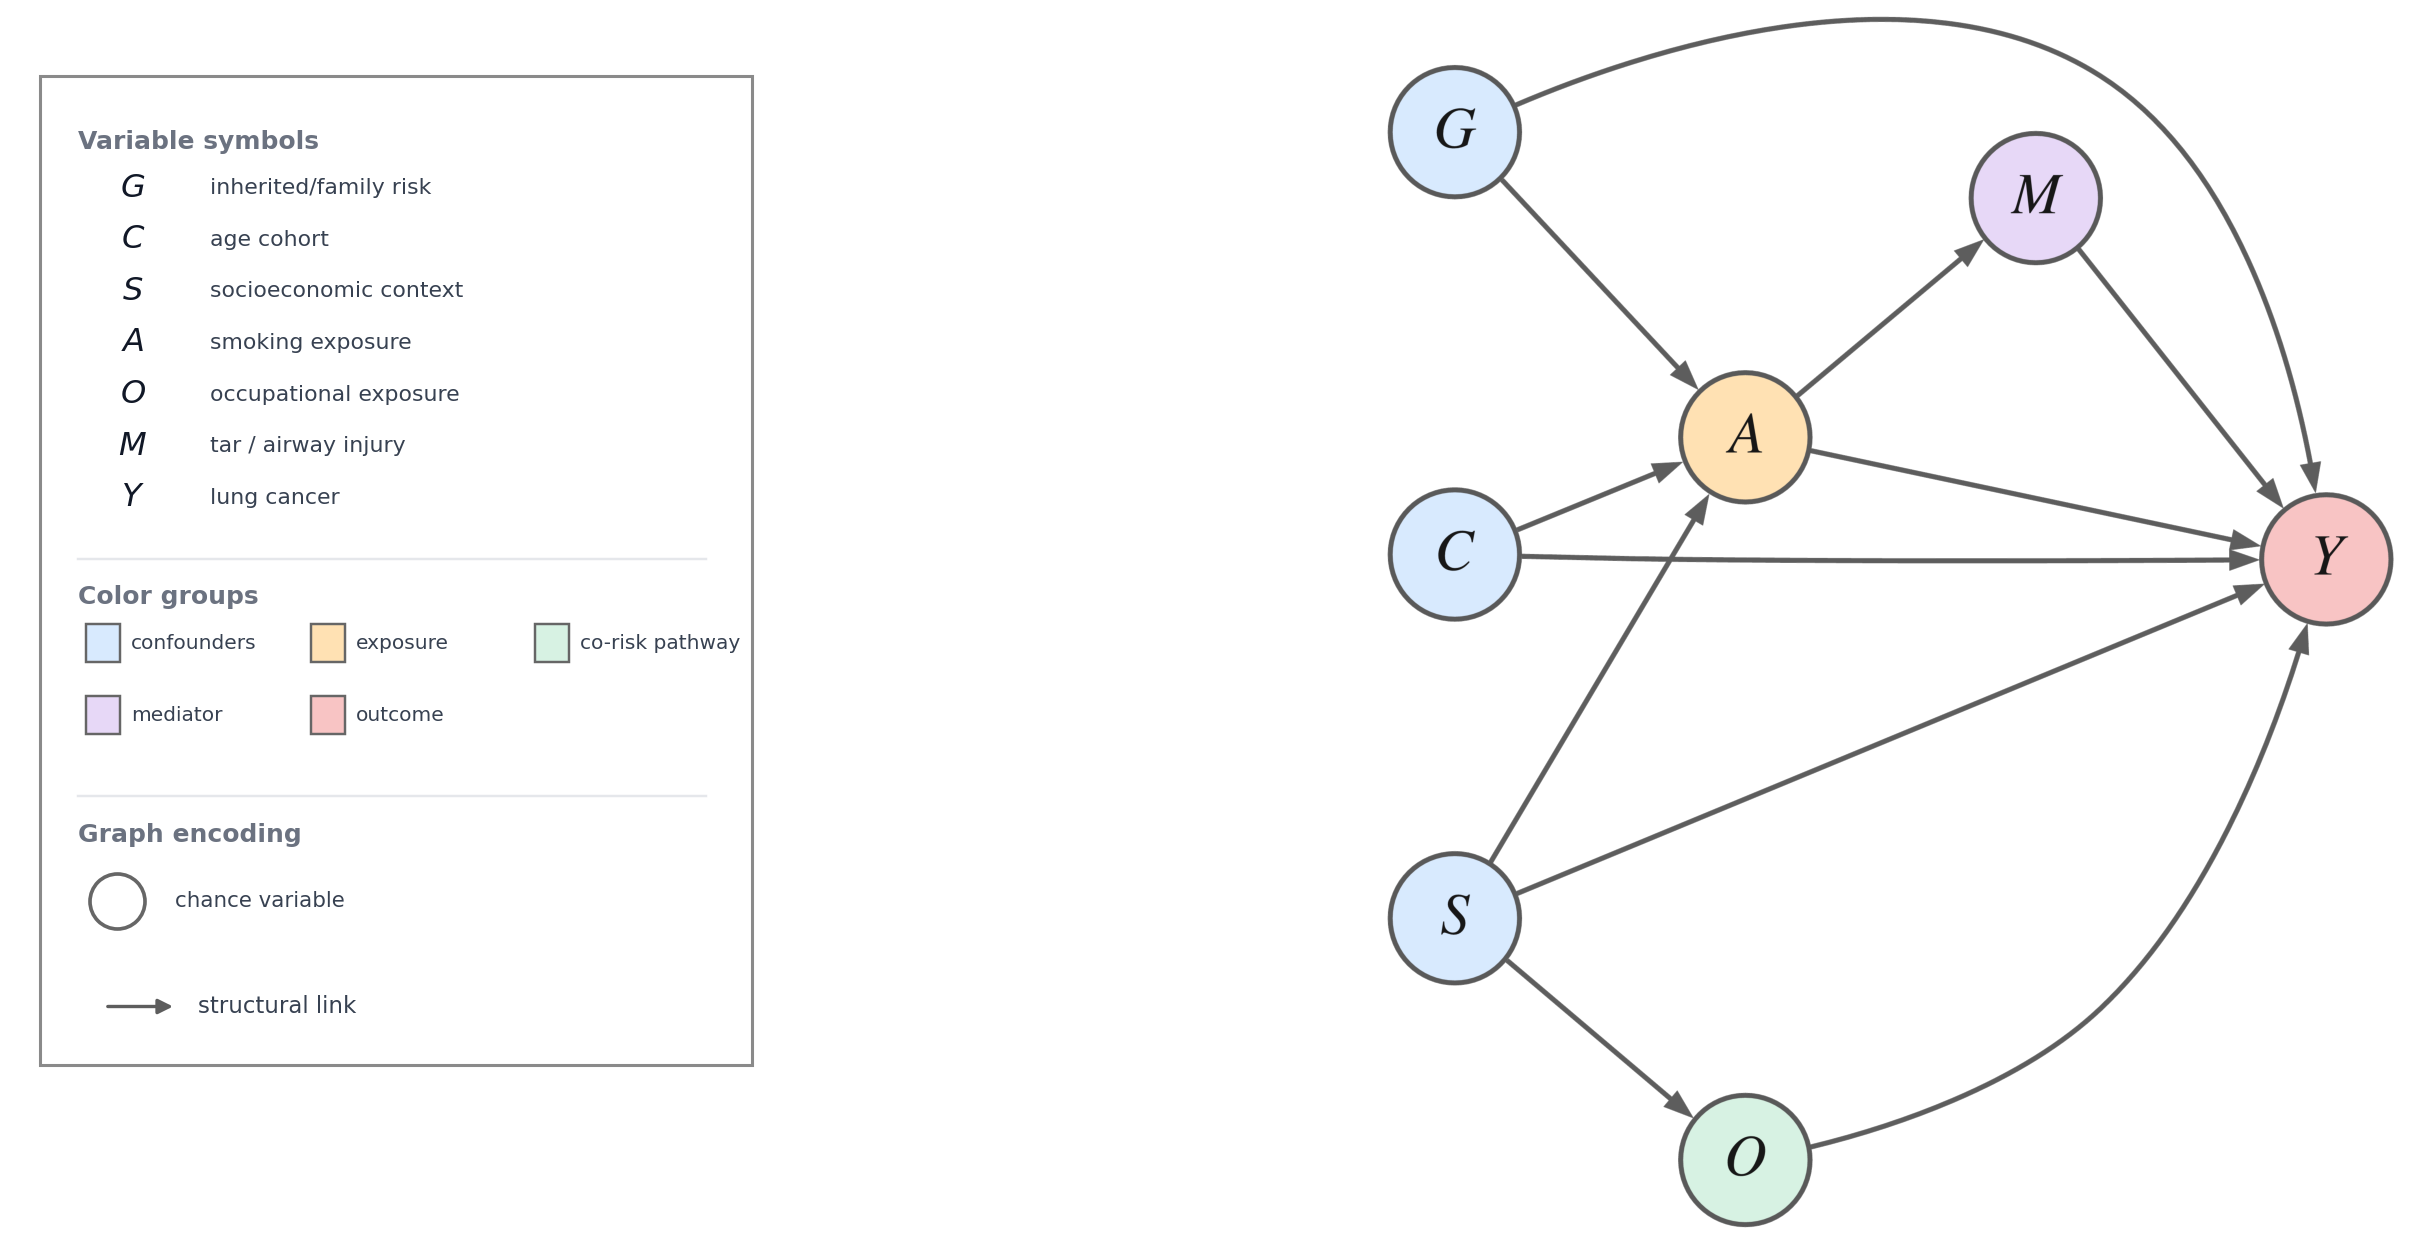
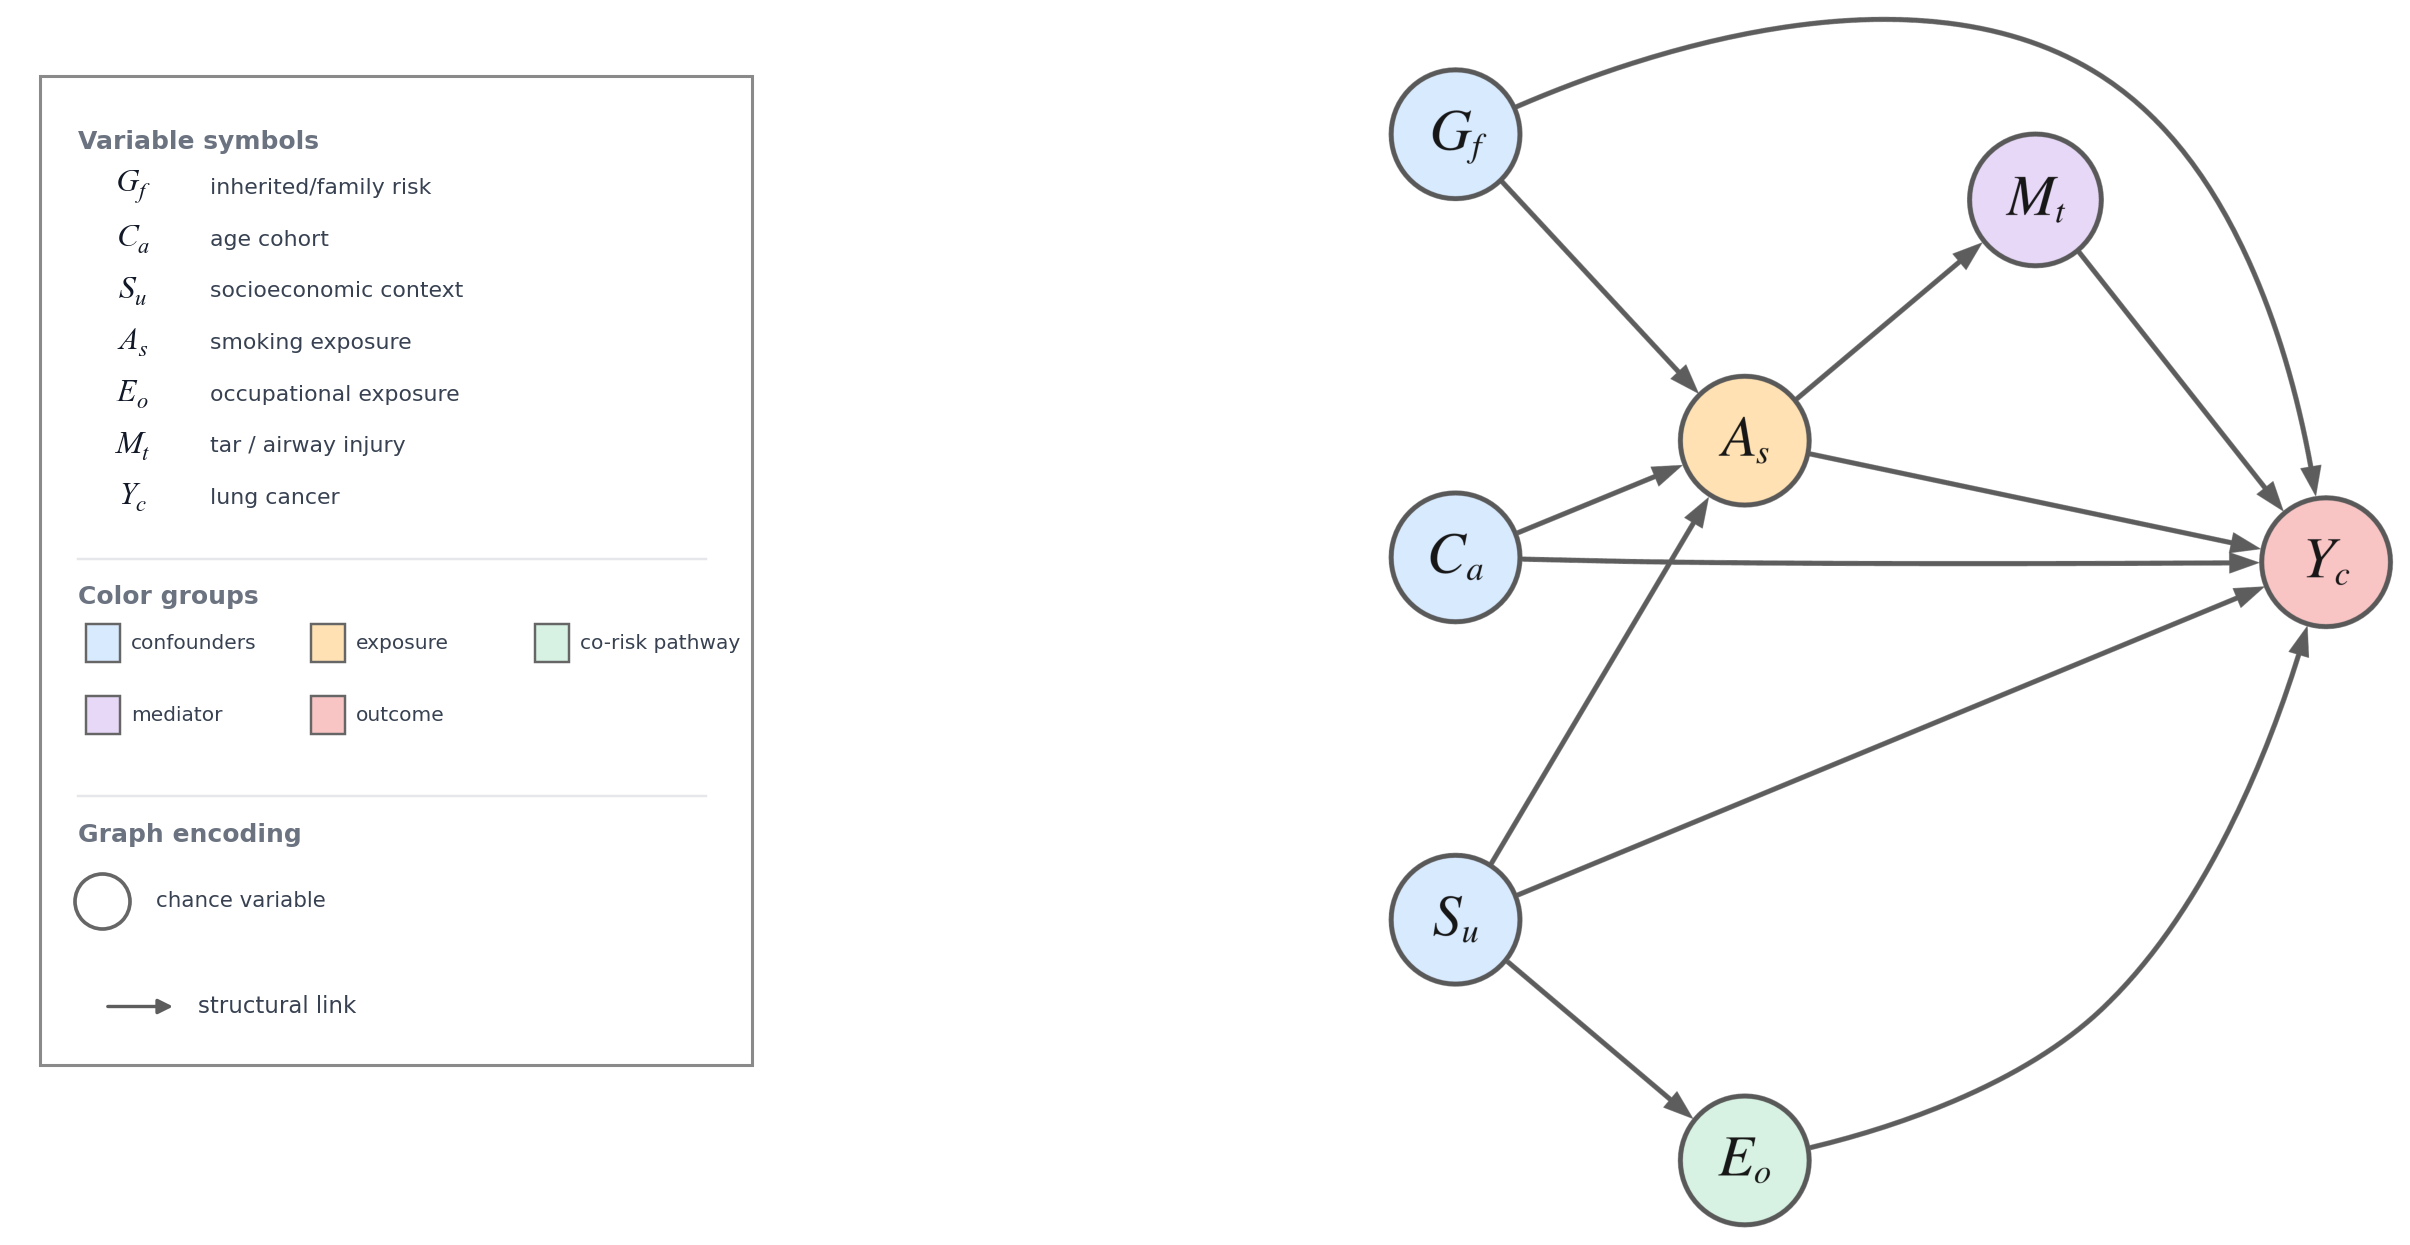
Align SCM legend math font

diff --git a/skills/scm-figure-builder/scripts/render_scm_figure.py b/skills/scm-figure-builder/scripts/render_scm_figure.py
@@ -24,6 +24,7 @@ import matplotlib
 matplotlib.use("Agg")
 import matplotlib.image as mpimg
 import matplotlib.pyplot as plt
+from matplotlib import font_manager
 from matplotlib.lines import Line2D
 from matplotlib.patches import Circle, FancyArrowPatch, FancyBboxPatch, Polygon, Rectangle
 
@@ -73,6 +74,19 @@ EDGE_STYLES = {
     "scoring": {"style": "dotted", "color": "#8A8A8A", "legend": "observation/scoring"},
     "absent": {"style": "dashed", "color": "#75869E", "legend": "absent/null path"},
 }
+
+
+def _legend_math_rc_params() -> dict[str, str]:
+    """Use Times-style math in the Matplotlib legend to match Graphviz node labels."""
+    available_fonts = {font.name for font in font_manager.fontManager.ttflist}
+    if "Times New Roman" in available_fonts:
+        return {
+            "mathtext.fontset": "custom",
+            "mathtext.rm": "Times New Roman",
+            "mathtext.it": "Times New Roman:italic",
+            "mathtext.bf": "Times New Roman:bold",
+        }
+    return {"mathtext.fontset": "stix"}
 
 
 def _q(value: Any) -> str:
@@ -402,13 +416,14 @@ def _draw_legend(ax: Any, spec: dict[str, Any], mode: str) -> None:
     section_break()
     ax.text(0.09, y, "Graph encoding", ha="left", va="top", fontsize=8.2, weight="bold", color="#6B7280")
     y -= 0.065
+    shape_label_fontsize = 6.6 if any(len(label) > 16 for _, label in shape_items) else 7.0
     for i, (kind, label) in enumerate(shape_items):
         col = i % 2
         row = i // 2
-        x = [0.14, 0.52][col]
+        x = [0.12, 0.66][col]
         y_item = y - row * 0.064
         _draw_shape(ax, kind, x, y_item, size=0.060)
-        ax.text(x + 0.075, y_item, label, ha="left", va="center", fontsize=7.0, color="#374151")
+        ax.text(x + 0.070, y_item, label, ha="left", va="center", fontsize=shape_label_fontsize, color="#374151")
     y -= shape_rows * 0.064 + 0.024
 
     for i, kind in enumerate(edge_items):
@@ -423,19 +438,20 @@ def _draw_legend(ax: Any, spec: dict[str, Any], mode: str) -> None:
 
 
 def compose_figure(graph_png_path: Path, output_png: Path, output_pdf: Path, spec: dict[str, Any], mode: str, dpi: int) -> None:
-    img = mpimg.imread(graph_png_path)
-    fig = plt.figure(figsize=(13.8, 6.2), dpi=dpi)
-    legend_ax = fig.add_axes([0.015, 0.06, 0.255, 0.88])
-    graph_ax = fig.add_axes([0.285, 0.05, 0.70, 0.90])
-    _draw_legend(legend_ax, spec, mode)
-    graph_ax.imshow(img)
-    graph_ax.set_axis_off()
-    title = spec.get("title")
-    if title and not spec.get("suppress_title", True):
-        fig.suptitle(str(title), x=0.50, y=0.985, fontsize=13, weight="bold")
-    fig.savefig(output_png, dpi=dpi, bbox_inches="tight", pad_inches=0.04)
-    fig.savefig(output_pdf, bbox_inches="tight", pad_inches=0.04)
-    plt.close(fig)
+    with plt.rc_context(_legend_math_rc_params()):
+        img = mpimg.imread(graph_png_path)
+        fig = plt.figure(figsize=(13.8, 6.2), dpi=dpi)
+        legend_ax = fig.add_axes([0.015, 0.06, 0.255, 0.88])
+        graph_ax = fig.add_axes([0.285, 0.05, 0.70, 0.90])
+        _draw_legend(legend_ax, spec, mode)
+        graph_ax.imshow(img)
+        graph_ax.set_axis_off()
+        title = spec.get("title")
+        if title and not spec.get("suppress_title", True):
+            fig.suptitle(str(title), x=0.50, y=0.985, fontsize=13, weight="bold")
+        fig.savefig(output_png, dpi=dpi, bbox_inches="tight", pad_inches=0.04)
+        fig.savefig(output_pdf, bbox_inches="tight", pad_inches=0.04)
+        plt.close(fig)
 
 
 def default_caption(spec: dict[str, Any], mode: str) -> str:

diff --git a/README.md b/README.md
@@ -11,6 +11,7 @@ It supports two figure styles:
 
 Both figures below are rendered from the same multi-confounder smoking/lung-cancer SCM spec.
 The graph uses Graphviz/DOT for layout and Matplotlib for the legend.
+The mathematical panel demonstrates subscripted variable symbols such as `S_u`, `A_s`, and `Y_c`.
 
 ### Mathematical SCM
 